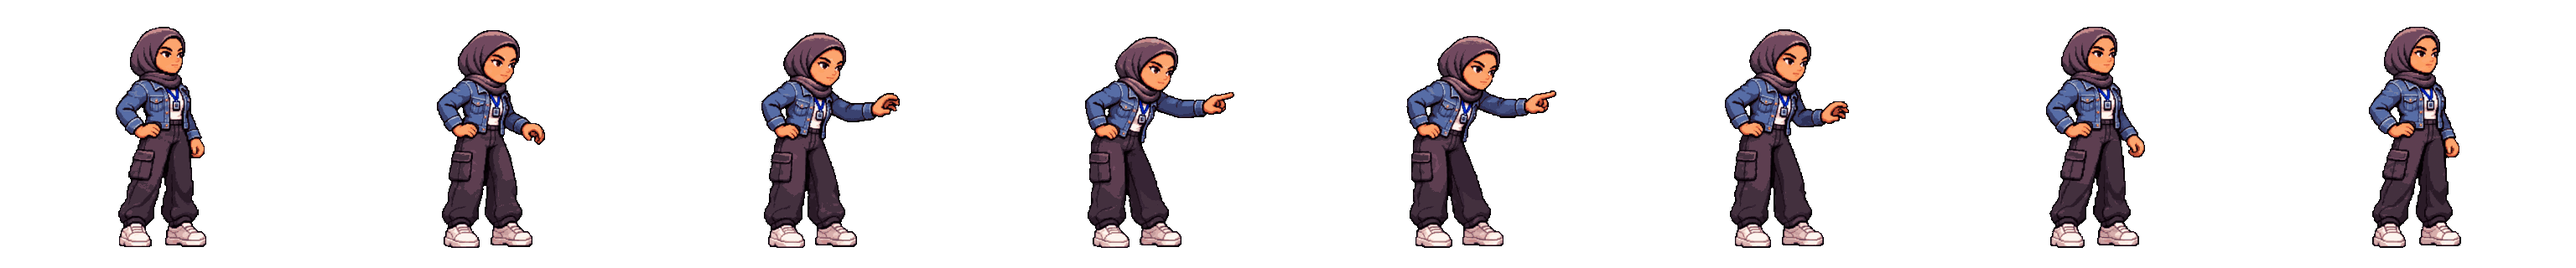
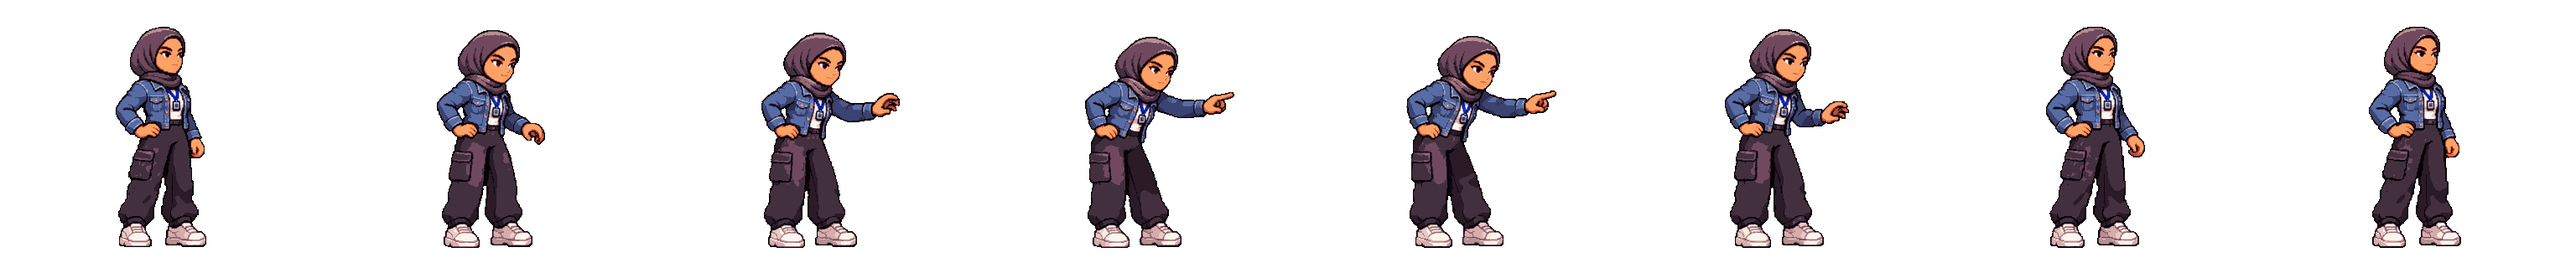
Cleaner sprites (texture stabiliser), side-view walk loop, gentler motion blur
- pants/jacket noise no longer flickers between frames: 32-colour palette + neighbourhood texture stabiliser, no extra palette colours
- walk redone in side view as a seamless 12-frame loop (second half = swapped legs/arms)
- motion blur: walk almost none, run gentle

diff --git a/src/zee.js b/src/zee.js
@@ -94,7 +94,8 @@ export class Zee {
   _visuals(dt) {
     if (this.px !== undefined) {
       const v = Math.hypot(this.x - this.px, this.y - this.py) / dt;
-      const target = Math.min(1, Math.max(0, (v - 70) / 150));
+      // walk (110 px/s) barely registers, a full run (220 px/s) gives a gentle trail
+      const target = Math.min(0.5, Math.max(0, (v - 100) / 260));
       this.blur += (target - this.blur) * Math.min(1, dt * 18);
     }
     this._trailT += dt;

diff --git a/tools/ZeePipeline.cs b/tools/ZeePipeline.cs
@@ -296,6 +296,38 @@ namespace Zee2
                 }
         }
 
+        // Texture stabiliser: the generated art has painterly noise (e.g. in the dark pants) that snaps to a different palette
+        // shade on every frame and flickers. Each pixel takes the dominant colour of its 5x5 neighbourhood when that colour is a
+        // close shade of its own; real details (outlines, lanyard, face, white shoes) differ strongly and are untouched.
+        static bool IsOutline(int c) { int l = (((c >> 16) & 255) * 30 + ((c >> 8) & 255) * 59 + (c & 255) * 11) / 100; return l < 32; }
+
+        public static void Denoise(SheetOut o, int passes, double maxDist, int r)
+        {
+            Dictionary<int, int> tally = new Dictionary<int, int>();
+            foreach (int[] fr in o.Frames)
+                for (int pass = 0; pass < passes; pass++)
+                {
+                    int[] src = (int[])fr.Clone();
+                    for (int y = r; y < CH - r; y++)
+                        for (int x = r; x < CW - r; x++)
+                        {
+                            int p = src[y * CW + x];
+                            if ((p >> 24) == 0 || IsOutline(p & 0xFFFFFF)) continue;     // never touch transparent pixels or outlines
+                            tally.Clear(); int n = 0;
+                            for (int dy = -r; dy <= r; dy++)
+                                for (int dx = -r; dx <= r; dx++)
+                                {
+                                    int q = src[(y + dy) * CW + x + dx];
+                                    if ((q >> 24) == 0 || IsOutline(q & 0xFFFFFF)) continue;
+                                    int c; tally.TryGetValue(q, out c); tally[q] = c + 1; n++;
+                                }
+                            int best = p, bestN = 0;
+                            foreach (KeyValuePair<int, int> kv in tally) if (kv.Value > bestN) { bestN = kv.Value; best = kv.Key; }
+                            if (best != p && bestN * 100 >= n * 30 && Dist(p & 0xFFFFFF, best & 0xFFFFFF) < maxDist) fr[y * CW + x] = best;
+                        }
+                }
+        }
+
         public static void SaveStrip(SheetOut o, string path)
         {
             int n = o.Frames.Length;
@@ -355,6 +387,7 @@ namespace Zee2
             List<SheetOut> outs = new List<SheetOut>();
             foreach (SheetCfg c in cfgs) outs.Add(Process(c, root, log));
             foreach (SheetOut o in outs) Quantize(o, pal);
+            foreach (SheetOut o in outs) Denoise(o, 2, 9000, 3);
             Directory.CreateDirectory(outDir);
             foreach (SheetOut o in outs) SaveStrip(o, System.IO.Path.Combine(outDir, "zee_" + o.Cfg.Name + ".png"));
             if (!string.IsNullOrEmpty(sheetPath)) SaveSheet(outs, sheetPath, 1);
